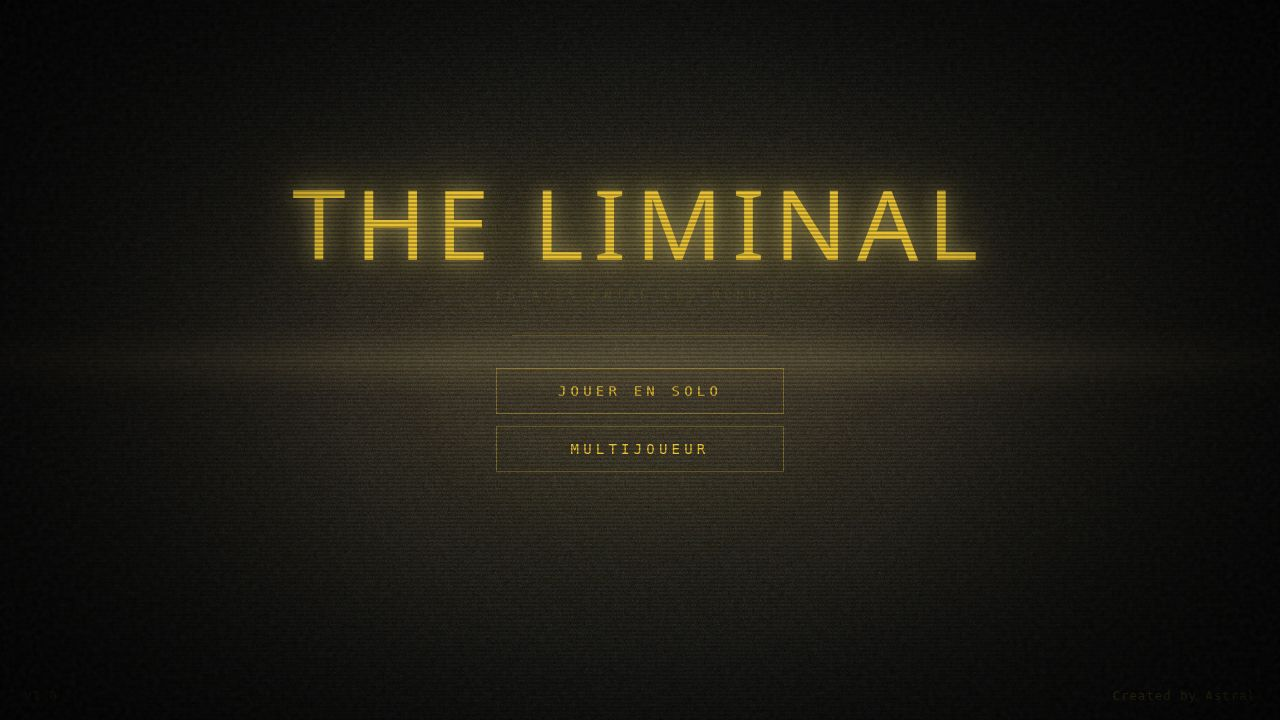
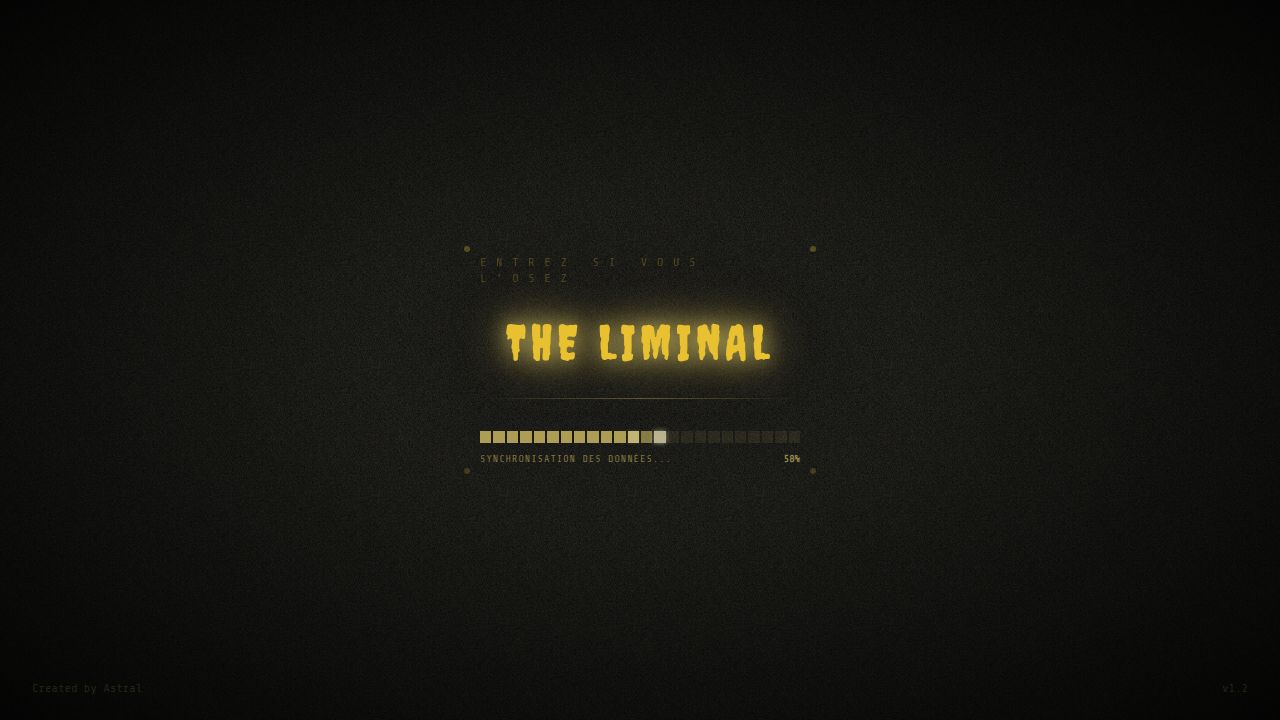
Add a loading screen and prevent stale cache errors
Implement a new loading screen with dynamic messages and progress, and update the Vite configuration to include cache-busting headers to prevent browser caching issues.

Replit-Commit-Author: Agent
Replit-Commit-Session-Id: 69d8bc44-c7e8-48a4-ac2e-c6c67d582f42
Replit-Commit-Checkpoint-Type: full_checkpoint
Replit-Commit-Event-Id: 276d2969-aea1-4a51-b137-23e892714c13
Replit-Commit-Screenshot-Url: https://storage.googleapis.com/screenshot-production-us-central1/67c74a6b-5254-44b1-a513-4befa7b5fad4/69d8bc44-c7e8-48a4-ac2e-c6c67d582f42/3L4yFct
Replit-Helium-Checkpoint-Created: true

Changed region(s): [[0.1875, 0.2139, 0.8125, 0.7333]]

diff --git a/artifacts/backrooms-game/src/components/LoadingScreen.tsx b/artifacts/backrooms-game/src/components/LoadingScreen.tsx
@@ -1,0 +1,163 @@
+import { useEffect, useState, useRef } from "react";
+import { motion } from "framer-motion";
+
+const MESSAGES = [
+  "CHARGEMENT DES ENTITÉS...",
+  "CALIBRAGE DU LIMINAL...",
+  "PRÉPARATION DES COULOIRS...",
+  "SYNCHRONISATION DES DONNÉES...",
+  "CONNEXION AU SERVEUR...",
+  "INITIALISATION DU SYSTÈME...",
+];
+
+interface Props {
+  onDone: () => void;
+}
+
+export default function LoadingScreen({ onDone }: Props) {
+  const [progress, setProgress] = useState(0);
+  const [msgIndex, setMsgIndex] = useState(0);
+  const [done, setDone] = useState(false);
+  const onDoneRef = useRef(onDone);
+  onDoneRef.current = onDone;
+
+  useEffect(() => {
+    const DURATION = 2400;
+    const start = Date.now();
+    let rafId: number;
+
+    const tick = () => {
+      const elapsed = Date.now() - start;
+      const p = Math.min(100, (elapsed / DURATION) * 100);
+      setProgress(p);
+      setMsgIndex(Math.min(MESSAGES.length - 1, Math.floor((p / 100) * MESSAGES.length)));
+
+      if (p < 100) {
+        rafId = requestAnimationFrame(tick);
+      } else {
+        Promise.all([
+          document.fonts.ready,
+          new Promise<void>((r) => setTimeout(r, 350)),
+        ]).then(() => {
+          setDone(true);
+          setTimeout(() => onDoneRef.current(), 550);
+        });
+      }
+    };
+
+    rafId = requestAnimationFrame(tick);
+    return () => cancelAnimationFrame(rafId);
+  }, []);
+
+  const segments = 24;
+  const filled = Math.round((progress / 100) * segments);
+
+  return (
+    <motion.div
+      initial={{ opacity: 1 }}
+      animate={{ opacity: done ? 0 : 1 }}
+      transition={{ duration: 0.5, ease: "easeIn" }}
+      className="fixed inset-0 z-[9999] flex flex-col items-center justify-center bg-[#0a0a06] select-none overflow-hidden"
+    >
+      {/* Background grain */}
+      <div className="absolute inset-0 grain-overlay opacity-20 pointer-events-none" />
+      {/* Scanlines */}
+      <div className="absolute inset-0 scanlines opacity-30 pointer-events-none" />
+
+      {/* Vignette */}
+      <div
+        className="absolute inset-0 pointer-events-none"
+        style={{ background: "radial-gradient(ellipse 70% 70% at 50% 50%, transparent 30%, rgba(0,0,0,0.85) 100%)" }}
+      />
+
+      <div className="relative z-10 flex flex-col items-center gap-8 w-80">
+        {/* Glitch subtitle */}
+        <motion.p
+          initial={{ opacity: 0 }}
+          animate={{ opacity: 0.5 }}
+          transition={{ delay: 0.3, duration: 1 }}
+          className="text-primary/50 tracking-[0.8em] uppercase text-xs font-mono"
+        >
+          ENTREZ SI VOUS L'OSEZ
+        </motion.p>
+
+        {/* Title */}
+        <motion.h1
+          initial={{ opacity: 0, scale: 0.95 }}
+          animate={{ opacity: 1, scale: 1 }}
+          transition={{ duration: 0.8, ease: "easeOut" }}
+          className="text-5xl font-title text-primary tracking-widest text-center"
+          style={{
+            textShadow: "0 0 20px rgba(200,180,96,0.9), 0 0 50px rgba(200,180,96,0.4)",
+            filter: "drop-shadow(0 0 20px rgba(200,180,96,0.5))",
+          }}
+        >
+          THE LIMINAL
+        </motion.h1>
+
+        {/* Separator */}
+        <div
+          className="w-full h-px"
+          style={{ background: "linear-gradient(90deg, transparent, rgba(200,180,96,0.4), transparent)" }}
+        />
+
+        {/* Segmented progress bar */}
+        <div className="w-full flex flex-col gap-2">
+          <div className="flex gap-0.5">
+            {Array.from({ length: segments }).map((_, i) => (
+              <motion.div
+                key={i}
+                className="flex-1 h-3"
+                style={{
+                  background: i < filled
+                    ? i === filled - 1
+                      ? "rgba(255,248,200,0.95)"
+                      : "rgba(200,180,96,0.85)"
+                    : "rgba(200,180,96,0.10)",
+                  boxShadow: i === filled - 1 ? "0 0 8px rgba(255,248,200,0.8)" : "none",
+                  transition: "background 0.08s ease, box-shadow 0.08s ease",
+                }}
+              />
+            ))}
+          </div>
+
+          {/* Progress text */}
+          <div className="flex justify-between items-center">
+            <span
+              className="font-mono text-[10px] tracking-widest"
+              style={{ color: "rgba(200,180,96,0.6)" }}
+            >
+              {MESSAGES[msgIndex]}
+            </span>
+            <span
+              className="font-mono text-[10px] font-bold tabular-nums"
+              style={{ color: "rgba(200,180,96,0.7)" }}
+            >
+              {Math.round(progress)}%
+            </span>
+          </div>
+        </div>
+
+        {/* Decorative corner dots */}
+        <div className="absolute -top-2 -left-4 w-1.5 h-1.5 rounded-full bg-primary/30" />
+        <div className="absolute -top-2 -right-4 w-1.5 h-1.5 rounded-full bg-primary/30" />
+        <div className="absolute -bottom-2 -left-4 w-1.5 h-1.5 rounded-full bg-primary/20" />
+        <div className="absolute -bottom-2 -right-4 w-1.5 h-1.5 rounded-full bg-primary/20" />
+      </div>
+
+      {/* Version */}
+      <div
+        className="absolute bottom-6 right-8 font-mono text-xs"
+        style={{ color: "rgba(200,180,96,0.18)" }}
+      >
+        v1.2
+      </div>
+      <div
+        className="absolute bottom-6 left-8 font-mono text-xs"
+        style={{ color: "rgba(200,180,96,0.18)" }}
+      >
+        Created by Astral
+      </div>
+    </motion.div>
+  );
+}

diff --git a/artifacts/backrooms-game/src/App.tsx b/artifacts/backrooms-game/src/App.tsx
@@ -1,3 +1,4 @@
+import { useState } from "react";
 import { Switch, Route, Router as WouterRouter } from "wouter";
 import { QueryClient, QueryClientProvider } from "@tanstack/react-query";
 import { Toaster } from "@/components/ui/toaster";
@@ -16,6 +17,7 @@ import OptionsMenu from "./pages/OptionsMenu";
 import SkinSelector from "./pages/SkinSelector";
 import NotFound from "./pages/not-found";
 import CRTOverlay from "./components/CRTOverlay";
+import LoadingScreen from "./components/LoadingScreen";
 
 const queryClient = new QueryClient();
 
@@ -37,6 +39,8 @@ function Router() {
 }
 
 function App() {
+  const [loaded, setLoaded] = useState(false);
+
   return (
     <QueryClientProvider client={queryClient}>
       <TooltipProvider>
@@ -52,6 +56,8 @@ function App() {
         </SettingsProvider>
         <Toaster />
       </TooltipProvider>
+
+      {!loaded && <LoadingScreen onDone={() => setLoaded(true)} />}
     </QueryClientProvider>
   );
 }

diff --git a/artifacts/backrooms-game/vite.config.ts b/artifacts/backrooms-game/vite.config.ts
@@ -63,6 +63,9 @@ export default defineConfig({
     strictPort: true,
     host: "0.0.0.0",
     allowedHosts: true,
+    headers: {
+      "Cache-Control": "no-store, no-cache, must-revalidate",
+    },
     proxy: {
       "/api": {
         target: "http://localhost:8080",
